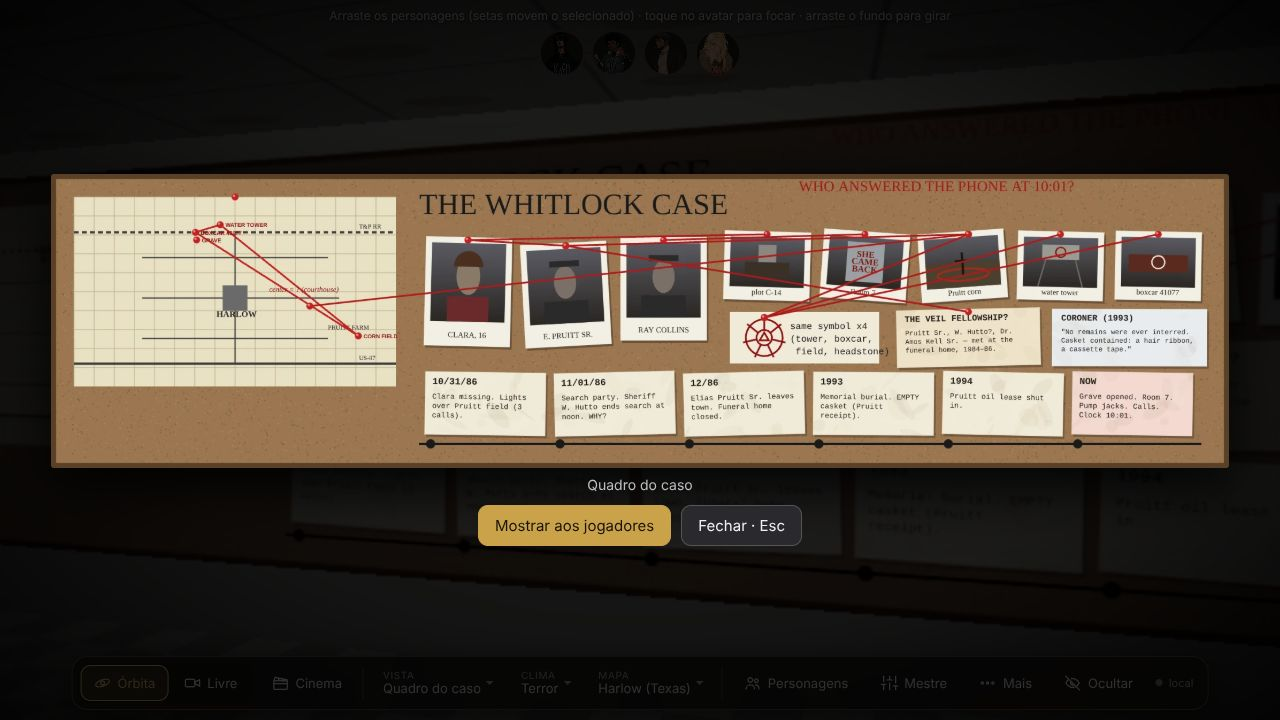
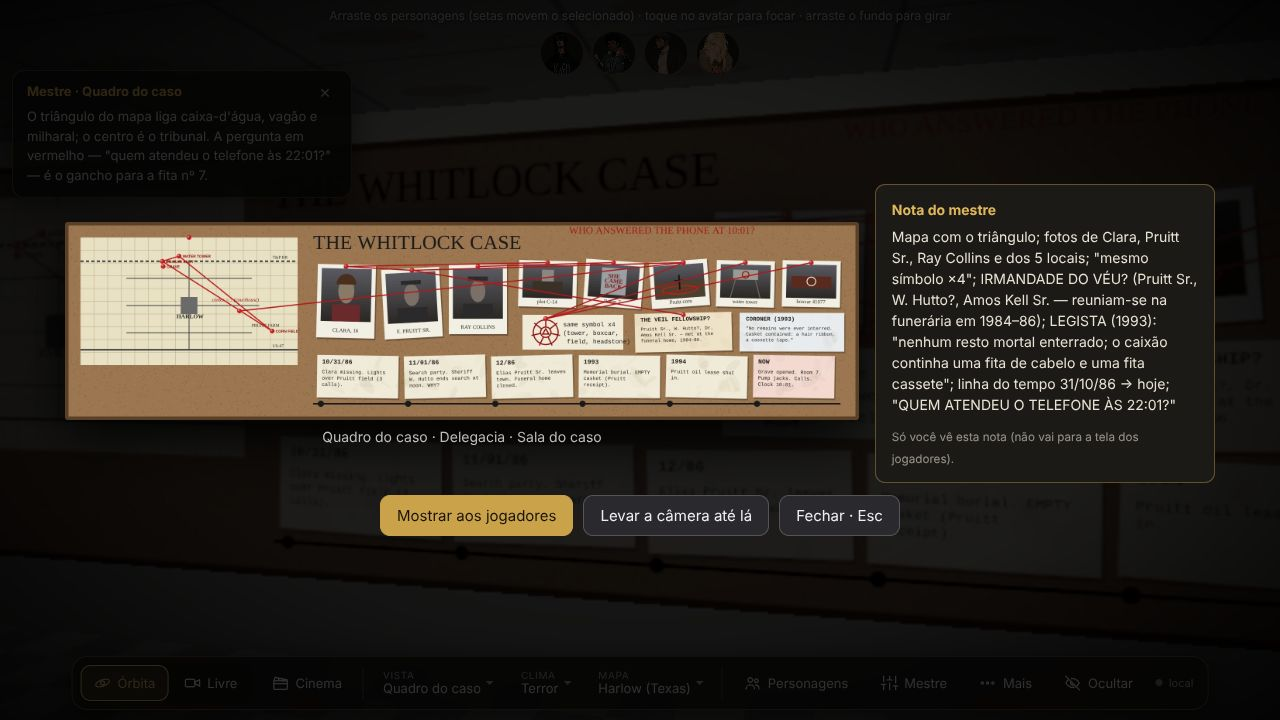
Dois monitores: notas do mestre por vista, lista de pistas com tradução, levar a câmera ao documento
Informação de mestre só na janela do mestre (nunca na dos jogadores nem na tela limpa).
Harlow: tradução/nota dos 31 documentos e notas de todas as vistas. test:lupa cobre
notas, pistas, câmera e ausência de vazamento na janela dos jogadores.

Claude-Session: https://claude.ai/code/session_018HzJZ4WL9nnBJcpsTuDajh

diff --git a/src/maps/texas/pistas.ts b/src/maps/texas/pistas.ts
@@ -1,0 +1,66 @@
+// O Caso Whitlock — informações SÓ do mestre: tradução/nota de cada documento (aparece ao lado da lupa) e
+// notas por vista (cartão no canto da janela do mestre). Nada disto vai para a tela dos jogadores.
+// Os nomes têm de bater com os de police.ts (nm('…')) e mystery.ts.
+
+export const PISTAS: Record<string, { onde: string; pt: string }> = {
+  // ---------- delegacia ----------
+  'Mural de avisos (recepção)': { onde: 'Delegacia · Recepção', pt: 'DESAPARECIDA: Clara Mae Whitlock, 16, vista pela última vez em 31/10/1986 perto da Pruitt Rd.\nPROCURA-SE para interrogatório: Elias Pruitt (~70), ex-dono da funerária — violação de túmulo. "Não se aproxime."\nTOQUE DE RECOLHER às 22h. Mantenham as crianças em casa.\nREUNIÃO: quem ligou as bombas de petróleo? A companhia de energia diz que não há luz nessas linhas desde 1994.\nCACHORRO PERDIDO: "Buck", fugiu para o milharal e não volta quando chamam.\nVIGÍLIA na Igreja Batista por Clara e por Ray Collins.' },
+  'Placa do xerife': { onde: 'Delegacia · Recepção', pt: 'Xerife Dale Hutto, Condado de Harlow, desde 1998. Filho do xerife W. Hutto, que encerrou a busca em 1986.' },
+  'Foto do grupo de busca, 1986': { onde: 'Delegacia · Recepção', pt: '"Grupo de busca, 1º/11/1986 — Xerife W. Hutto (à esquerda)". Repare: Elias Pruitt Sr. aparece na ponta direita, de luvas.' },
+  'Memorando do xerife': { onde: 'Delegacia · Sala do xerife', pt: 'RE: WHITLOCK (86-1031). O caso continua FECHADO. Ninguém puxa o arquivo, ninguém fala com a imprensa, ninguém vai à fazenda Pruitt depois que escurece. "Meu pai enterrou isso em 86 e eu pretendo manter assim." — D.H.\n\nSEGREDO: o xerife sabe que o pai participou da Irmandade do Véu.' },
+  'Carta de Elias Pruitt Jr.': { onde: 'Delegacia · Sala do xerife', pt: '"Dale, sei o que meu pai fez naquele campo e o que o seu pai ajudou a enterrar. O círculo nunca foi fechado. Está abrindo de novo. Precisa ser fechado DE DENTRO do campo, às 22:01, com as mesmas palavras. Eu as escrevi. Estão no porão. Não deixe ninguém responder quando chamar com a voz dela." — E. Pruitt\n\nGANCHO: as palavras estão no porão de tempestade da fazenda.' },
+  'Mapa do condado (sala do xerife)': { onde: 'Delegacia · Sala do xerife', pt: 'Caixa-d\'água, vagão 41077, milharal e o túmulo marcados com alfinetes, ligados por um triângulo vermelho. Anotação: "centro = ? (tribunal)".\n\nSEGREDO: o centro do triângulo cai no tribunal — o relógio parado às 22:01 é o "olho" do símbolo.' },
+  'Fotos na parede do xerife': { onde: 'Delegacia · Sala do xerife', pt: '"Pai, 1986"; "W. Hutto e E. Pruitt Sr." juntos e sorrindo; "a casa dos Pruitt"; foto do campo com a legenda "queimem isto".' },
+  'Relatório: INCIDENT REPORT 26-1102': { onde: 'Delegacia · Agentes', pt: 'Cemitério da Igreja Batista, lote C-14 (Whitlock). Túmulo ABERTO às 6:10. Terra jogada PARA FORA, tampa removida. Caixão vazio — segundo o recibo da funerária, sempre esteve. Escada deixada no buraco. Nenhuma pegada saindo.' },
+  'Relatório: MISSING PERSON 26-1104': { onde: 'Delegacia · Agentes', pt: 'RAY COLLINS, 34, vendedor de Lubbock, Starlite Motel, QUARTO 7. Porta aberta, abajur aceso, cama feita, carro no estacionamento. Espelho: "SHE CAME BACK" ("ela voltou") em vermelho — o laboratório diz que NÃO é sangue: óxido de ferro, tinta antiga. Polaroid na cama datada de 31/10/86.' },
+  'Relatório: CALL FOR SERVICE 26-1106': { onde: 'Delegacia · Agentes', pt: 'Concessão Pruitt: as 5 bombas de petróleo FUNCIONANDO. Campo fechado desde 1994; a companhia confirma que não há energia. Deputado Garza: "os motores estão frios e se mexem mesmo assim."' },
+  'Relatório: CALL FOR SERVICE 26-1108': { onde: 'Delegacia · Agentes', pt: 'Rancho Hale: 12 cabeças de gado sumidas, porteira fechada, sem rastros. O fazendeiro viu "uma menina parada no milho à noite, chamando a mãe". O deputado não achou ninguém.' },
+  'Quadro de chamadas da semana': { onde: 'Delegacia · Agentes', pt: 'Seg túmulo aberto · Ter Ray Collins some do quarto 7 · Qua bombas de petróleo se mexendo · Qui gado sumido e "menina no milho" · Sex 3 ligações da linha dos PRUITT (desligada em 1987) · Sáb relógio do tribunal parou às 22:01 · Dom ???\n"NÃO VÃO LÁ SOZINHOS."' },
+  'Dias sem incidentes': { onde: 'Delegacia · Agentes', pt: '"Dias sem incidentes: 0".' },
+  'Escala de plantão': { onde: 'Delegacia · Agentes', pt: 'Dia: Xerife Hutto e Dep. M. Garza · Noite: Dep. T. Boone e Dep. J. Lyle · Rádio: Sra. Irene Kowalski.\nPatrulha da noite "só no asfalto; não entrem na Pruitt Rd. depois das 22h". Lyle "doente desde quarta (?)".' },
+  'Quadro do caso': { onde: 'Delegacia · Sala do caso', pt: 'Mapa com o triângulo; fotos de Clara, Pruitt Sr., Ray Collins e dos 5 locais; "mesmo símbolo ×4"; IRMANDADE DO VÉU? (Pruitt Sr., W. Hutto?, Amos Kell Sr. — reuniam-se na funerária em 1984–86); LEGISTA (1993): "nenhum resto mortal enterrado; o caixão continha uma fita de cabelo e uma fita cassete"; linha do tempo 31/10/86 → hoje; "QUEM ATENDEU O TELEFONE ÀS 22:01?"' },
+  'Quadro "o que sabemos"': { onde: 'Delegacia · Sala do caso', pt: '1. Clara entrou no campo e não saiu. 2. Pruitt Sr. e "amigos" fizeram algo lá. 3. O pai do xerife encerrou a busca — ele sabia. 4. Caixão: fita de cabelo + FITA (evidência nº 7 — sumiu?). 5. O símbolo é o mapa dos 3 locais; e o centro? 6. Tudo acontece às 22:01. 7. Pruitt Jr. voltou e quer o campo FECHADO.' },
+  'Papéis sobre a mesa do caso': { onde: 'Delegacia · Sala do caso', pt: 'Recibo da Funerária Pruitt (1993): caixão lacrado, tamanho infantil, "conteúdo a pedido da família: nenhum". À mão: "por W.H. — lacre. — E.P."' },
+  'Etiqueta da caixa 86-1031': { onde: 'Delegacia · Evidências', pt: '"86-1031 · WHITLOCK, C.M. · NÃO ABRIR".' },
+  'Livro de registro de evidências': { onde: 'Delegacia · Evidências', pt: '1 fita de cabelo vermelha (do caixão) · 2 polaroides do campo (31/10/86) · 3 giz do porão · 4 depoimento lacrado de Pruitt Jr. · 5 mapa desenhado · 6 registro da busca (páginas 3–5 ARRANCADAS) · 7 FITA CASSETE "31/10 22:01 — ligação à emergência" — retirada por D. HUTTO em 10/11, NÃO devolvida · 8 coleira do cachorro "Buck" achada no milho.\n\nSEGREDO: a fita nº 7 está no cofre do xerife. Nela, a voz de Clara pede socorro… e depois chama cada pessoa da sala pelo nome.' },
+  'Transcrição do depoimento de Dot Reyes': { onde: 'Delegacia · Interrogatório', pt: '"Ela chegou às 21:40, descalça, pediu o telefone. Disse que tinha de ligar para a mãe antes das dez. Discou, desligou e disse: o espantalho sabe meu nome. Saiu para a Pruitt Rd."\n"Semana passada o telefone da lanchonete tocou às 22:01: \'Dot, diz pra mamãe que eu tô no campo.\' Xerife, eu CONHEÇO essa voz."' },
+  'Registro do despacho (rádio)': { onde: 'Delegacia · Rádio', pt: '21:47 luzes no milho (Hale) · 21:58 alarme do relógio do tribunal (ninguém lá dentro) · 22:01 ligação: menina, "diz pra mamãe que eu tô no campo, vem me buscar" — rastreada até a CASA DOS PRUITT (linha desligada em 03/1987) · 22:01 mesma voz para a lanchonete · 22:01 mesma voz para a casa dos Whitlock · 22:02 Lyle vai à Pruitt Rd. contra ordens · 22:19 e 22:40 Lyle NÃO RESPONDE. — I.K.' },
+  'Cartão de códigos 10': { onde: 'Delegacia · Rádio', pt: '10-4 ok · 10-8 em serviço · 10-20 localização · 10-33 emergência · 10-99 (escrito à mão) "…não atenda".' },
+  'Símbolo riscado na cela 2': { onde: 'Delegacia · Celas', pt: 'O mesmo símbolo do caso riscado na parede, marcas de contagem e "22:01". Quem ficou preso aqui (um andarilho, semana passada) foi solto de manhã e ninguém o viu sair da cidade.' },
+  'Bilhete na cela': { onde: 'Delegacia · Celas', pt: '"Todos dizem a mesma coisa às 22:01. Não atenda. Não diga seu nome em voz alta." — T.B. (deputado Boone)' },
+  // ---------- pistas pela cidade ----------
+  'Lápide de Clara Mae Whitlock': { onde: 'Cemitério', pt: '"Clara Mae Whitlock, 1970–1986 — Até que voltes para casa". O símbolo pequeno gravado embaixo: a lápide foi encomendada pela Funerária Pruitt.' },
+  'Mural de recortes (fazenda)': { onde: 'Fazenda Pruitt', pt: 'Recortes: "MENINA DE 16 DESAPARECIDA", "BUSCA ENCERRADA", "LUZES SOBRE A FAZENDA PRUITT?", "AGENTE FUNERÁRIO DEIXA A CIDADE"; foto de Clara; mapa com o símbolo. Alguém montou isto há POUCOS dias (fita adesiva nova): Pruitt Jr.' },
+  'Símbolo no vagão': { onde: 'Ferrovia', pt: 'Vagão T&P 41077, parado desde os anos 80, com o símbolo em giz na porta. Dentro (a critério do mestre): caixas da funerária com velas, giz e uma lista de nomes — a Irmandade.' },
+  "Símbolo na caixa-d'água": { onde: 'Ferrovia', pt: 'O símbolo pichado bem alto, visível de quase toda a cidade. Ninguém sabe como alguém subiu lá; a escada está enferrujada e trancada.' },
+  'Cartaz de desaparecida (lanchonete)': { onde: 'Rodovia · Lanchonete', pt: '"DESAPARECIDA — Clara Whitlock — vista pela última vez em 31/10/1986 perto da Pruitt Rd." O cartaz nunca foi tirado da parede.' },
+  'Polaroid sobre a cama (quarto 7)': { onde: 'Rodovia · Motel', pt: 'Polaroid escura, uma silhueta de menina no milho. No verso: "10·31·86". Ray Collins não tinha câmera.' },
+  'Quadro de hinos (igreja)': { onde: 'Igreja', pt: 'Os números dos hinos formam 10 · 31 · 86. O pastor Amos Kell jura que tranca o quadro toda noite (o pai dele era da Irmandade).' },
+};
+
+export const NOTAS: Record<string, string> = {
+  'Delegacia': 'ABERTURA. Os agentes chegam à delegacia. Duas viaturas na frente; uma com o giroflex ligado. A do deputado Lyle sumiu desde a noite passada.\nNPC: Xerife Dale Hutto — frio, quer o caso fechado. Irene Kowalski (rádio) quer ajudar às escondidas.\nPergunte o que cada agente faz primeiro. Às 22:01 o telefone da delegacia vai tocar.',
+  'Recepção': 'Mural com o cartaz de Clara, o "procura-se" de Elias Pruitt, toque de recolher e o cachorro perdido. Foto do grupo de busca de 1986 na parede (Pruitt Sr. aparece de luvas).\nO xerife recebe os agentes no balcão e evita perguntas sobre 1986.',
+  'Sala do xerife': 'Trancada se o xerife estiver na delegacia (teste para entrar). Memorando "caso FECHADO", carta de Pruitt Jr. (as palavras estão no porão), mapa com o triângulo, fotos de W. Hutto com Pruitt Sr.\nCOFRE Mosler: guarda a FITA Nº 7. Combinação: 10-31-86.',
+  'Agentes': 'Quatro mesas com os relatórios da semana (túmulo, quarto 7, bombas, gado). Quadro de chamadas: ligações da linha dos Pruitt, desligada em 1987. Escala: Lyle "doente".\nDeputado Garza, se estiver, conta das bombas "frias que se mexem".',
+  'Sala do caso': 'Coração da investigação. Quadro do caso + "o que sabemos" + recibo da funerária na mesa. Peça aos jogadores que liguem o símbolo, a data e a funerária.\nUse Mestre → Pistas do mapa para mostrar cada documento sem mover a câmera.',
+  'Quadro do caso': 'O triângulo do mapa liga caixa-d\'água, vagão e milharal; o centro é o tribunal. A pergunta em vermelho — "quem atendeu o telefone às 22:01?" — é o gancho para a fita nº 7.',
+  'Mural da recepção': 'Todos os avisos legíveis de perto. O de "procura-se" é recente: o xerife acha que Pruitt Jr. abriu o túmulo (não foi ele).',
+  'Evidências': 'Estantes com caixas. Na mesa: caixa 86-1031 aberta, fita vermelha e o toca-fitas VAZIO. O livro de registro denuncia: fita nº 7 retirada pelo xerife e não devolvida.\nSe tocarem a fita (do cofre): a voz pede socorro e depois diz o nome de cada agente presente. Teste de sanidade.',
+  'Interrogatório': 'Mesa, gravador, espelho falso. Transcrição do depoimento de Dot Reyes: "o espantalho sabe meu nome" e a ligação de semana passada.\nBom lugar para interrogar o próprio xerife mais tarde.',
+  'Rádio': 'Mesa de despacho de Irene Kowalski. Registro de ontem: três ligações da mesma voz às 22:01 e o Lyle sem responder desde 22:19.\nIrene passa o registro às escondidas se os agentes forem gentis. Às 22:01 o rádio chia com uma respiração.',
+  'Celas': 'Três celas; a 3 está aberta. Na 2, o símbolo riscado e "22:01"; bilhete do deputado Boone: "não atenda, não diga seu nome em voz alta".\nSe alguém disser o próprio nome aqui depois das 22h, as luzes piscam (use Mestre → A luz caiu).',
+  'Praça': 'Tribunal com o relógio parado às 22:01 (centro do símbolo). Lojas: funerária Pruitt fechada, cinema Roxy "CLOSED · SEE YOU SOON". Reunião da cidade quinta 19h.',
+  'Main Street': 'Rua principal até o tribunal. Moradores evitam falar do caso. Toque de recolher às 22h.',
+  'Saloon': 'Lone Star Tavern. Bom para boatos: "o velho Pruitt voltou, está no motel com outro nome"; "as bombas ligaram sozinhas".',
+  'Lanchonete': 'Dot\'s Diner, aberta 24h. Dot Reyes viu Clara em 1986 e recebeu a ligação semana passada. Cartaz de desaparecida ainda na parede.',
+  'Rodovia': 'Posto, lanchonete e o Starlite Motel. O letreiro VACANCY pisca. Outdoor "Have you seen Clara Whitlock?" na saída oeste.',
+  'Quarto 7': 'Ray Collins sumiu daqui. Porta aberta, abajur piscando, espelho com "SHE CAME BACK", polaroid de 31/10/86 na cama.\nElias Pruitt Jr. está hospedado no quarto 2 com nome falso.',
+  'Igreja': 'First Baptist. Quadro de hinos com 10·31·86. Pastor Amos Kell (filho de um membro da Irmandade) tem medo e mente mal.',
+  'Cemitério': 'Cova de Clara aberta, terra jogada PARA FORA, escada dentro. A lápide tem o símbolo pequeno embaixo.',
+  'Estação': 'Estação e silos da cooperativa. O vagão 41077 fica a oeste, nos trilhos.',
+  'Vagão': 'Vagão com o símbolo em giz. Dentro: caixas da funerária, velas, giz e a lista da Irmandade do Véu (Pruitt Sr., W. Hutto, Amos Kell Sr.).',
+  'Fazenda': 'Fazenda Pruitt abandonada. Moinho gira sem vento. Porão de tempestade aberto com brilho vermelho (as palavras do ritual estão lá embaixo). Milharal atrás, com o espantalho.',
+  'Ritual': 'Sala da casa: círculo de giz com velas ACESAS hoje e o mural de recortes. Pruitt Jr. esteve aqui há poucas horas.',
+  'Milharal': 'CLÍMAX. Círculo queimado com o símbolo, talos caídos em espiral, espantalho no centro. Às 22:01 a "Clara" chama cada agente pelo nome. Quem responder é puxado para o Outro Lado.\nPara fechar: ler as palavras do porão dentro do círculo às 22:01.',
+};

diff --git a/src/core/docs.ts b/src/core/docs.ts
@@ -7,9 +7,11 @@ import { st } from './state';
 import { mostrar, exibir, guardarImagem } from './mostrar';
 import { espelho } from './espelho';
 import { CFG } from './config';
+import { rodar } from './cinema';
+import type { MapRuntime } from './types';
 
 const ray = new THREE.Raycaster(), m2 = new THREE.Vector2();
-let el: HTMLDivElement | null = null, aberto: { n: string; data: string } | null = null;
+let el: HTMLDivElement | null = null, aberto: { n: string; data: string; doc: Doc } | null = null;
 const LONGE = 14; // metros: mais longe que isso não abre (evita clicar num papel do outro lado da cidade)
 
 function alvo(e: { clientX: number; clientY: number }) {
@@ -33,9 +35,13 @@ function imagemDe(o: THREE.Object3D): string | null {
   const c = document.createElement('canvas'); c.width = img.width; c.height = img.height; c.getContext('2d')!.drawImage(img, 0, 0); return c.toDataURL('image/webp', 0.9);
 }
 
+type Doc = NonNullable<MapRuntime['docs']>[number];
+
 function montar() {
   el = document.createElement('div'); el.id = 'lupa'; el.hidden = true;
-  el.innerHTML = '<figure><img alt=""><figcaption></figcaption></figure><div class="row"><button class="pri" id="lupaj">Mostrar aos jogadores</button><button id="lupax">Fechar · Esc</button></div>';
+  el.innerHTML = '<div class="lupa-corpo"><figure><img alt=""><figcaption></figcaption></figure>'
+    + '<aside><b>Nota do mestre</b><p></p><small>Só você vê esta nota (não vai para a tela dos jogadores).</small></aside></div>'
+    + '<div class="row"><button class="pri" id="lupaj">Mostrar aos jogadores</button><button id="lupac">Levar a câmera até lá</button><button id="lupax">Fechar · Esc</button></div>';
   document.body.appendChild(el);
   el.addEventListener('click', e => { if (e.target === el) fechar(); });
   (el.querySelector('#lupax') as HTMLButtonElement).onclick = fechar;
@@ -45,17 +51,70 @@ function montar() {
     const im = { id, data: aberto.data, papel: false, n: aberto.n };
     guardarImagem(im); mostrar.aoNova(im); exibir(id); fechar();
   };
+  (el.querySelector('#lupac') as HTMLButtonElement).onclick = () => { const d = aberto?.doc; fechar(); if (d) irAte(d); };
   addEventListener('keydown', e => { if (e.code === 'Escape' && aberto) { e.stopPropagation(); fechar(); } }, true);
 }
-function abrir(n: string, data: string) {
+function abrir(d: Doc, data: string) {
   if (!el) montar();
-  aberto = { n, data };
+  aberto = { n: d.n, data, doc: d };
   (el!.querySelector('img') as HTMLImageElement).src = data;
-  (el!.querySelector('figcaption') as HTMLElement).textContent = n;
+  (el!.querySelector('figcaption') as HTMLElement).textContent = d.onde ? d.n + ' · ' + d.onde : d.n;
+  const aside = el!.querySelector('aside') as HTMLElement; aside.hidden = !d.pt; (aside.querySelector('p') as HTMLElement).textContent = d.pt || '';
   (el!.querySelector('#lupaj') as HTMLElement).hidden = CFG.ro;
   el!.hidden = false;
 }
 function fechar() { aberto = null; if (el) el.hidden = true; }
+
+/** Abre um documento do mapa na lupa (sem mexer na câmera: os jogadores não percebem). */
+export function abrirDoc(d: Doc) { const data = imagemDe(d.o); if (data) abrir(d, data); }
+
+/** Leva a câmera (cinema, movimento suave) para enquadrar o documento na cena. */
+export function irAte(d: Doc) {
+  const o = d.o as THREE.Mesh; o.updateMatrixWorld(true);
+  const g = o.geometry; g.computeBoundingBox();
+  const c = g.boundingBox!.getCenter(new THREE.Vector3()).applyMatrix4(o.matrixWorld);
+  const sz = g.boundingBox!.getSize(new THREE.Vector3()), lado = Math.max(sz.x * o.scale.x, sz.y * o.scale.y, 0.25);
+  const n = new THREE.Vector3(0, 0, 1).transformDirection(o.matrixWorld);
+  const dist = Math.max(0.7, lado * 1.15);
+  let p: THREE.Vector3;
+  if (n.y > 0.7) { // papel deitado na mesa: olha de cima, um pouco de lado
+    p = c.clone().add(new THREE.Vector3(0.15, dist + 0.2, 0.35 + dist * 0.25));
+  } else p = c.clone().addScaledVector(n, dist).add(new THREE.Vector3(0, 0.05, 0));
+  rodar({ p: p.toArray() as [number, number, number], t: c.toArray() as [number, number, number], fov: 50 }, 'suave');
+}
+
+/** Preenche a lista "Pistas do mapa" (painel do Mestre), agrupada por local. */
+export function listarPistas(box: HTMLElement) {
+  box.innerHTML = '';
+  const docs = st.MP?.docs || [];
+  if (!docs.length) { const v = document.createElement('div'); v.className = 'vazio'; v.textContent = 'Este mapa não tem documentos registrados.'; box.appendChild(v); return; }
+  const grupos = new Map<string, Doc[]>();
+  docs.forEach(d => { const k = d.onde || 'Outros'; if (!grupos.has(k)) grupos.set(k, []); grupos.get(k)!.push(d); });
+  grupos.forEach((L, onde) => {
+    const h = document.createElement('div'); h.className = 'sub'; h.textContent = onde; box.appendChild(h);
+    L.forEach(d => { const b = document.createElement('button'); b.textContent = d.n; b.title = d.pt || ''; b.onclick = () => abrirDoc(d); box.appendChild(b); });
+  });
+}
+
+// ---------- notas do mestre por vista (cartão só na janela do mestre) ----------
+let nota: HTMLDivElement | null = null, vistaAtual = '', fechadaEm = '';
+function initNotas() {
+  nota = document.createElement('div'); nota.id = 'nota'; nota.hidden = true;
+  nota.innerHTML = '<header><b></b><button title="Esconder até mudar de vista" aria-label="Esconder">×</button></header><div class="txt"></div>';
+  document.body.appendChild(nota);
+  (nota.querySelector('button') as HTMLButtonElement).onclick = () => { fechadaEm = vistaAtual; nota!.hidden = true; };
+  setInterval(() => {
+    const v = (document.getElementById('bv')?.textContent || '').trim(), M = st.MP;
+    if (v === vistaAtual && nota!.dataset.mapa === (M?.id || '')) return;
+    vistaAtual = v; nota!.dataset.mapa = M?.id || '';
+    const t = M?.notas?.[v];
+    if (!t || fechadaEm === v) { nota!.hidden = true; return; }
+    fechadaEm = '';
+    (nota!.querySelector('b') as HTMLElement).textContent = 'Mestre · ' + v;
+    (nota!.querySelector('.txt') as HTMLElement).textContent = t;
+    nota!.hidden = false;
+  }, 400);
+}
 
 /** Liga a lupa (chamar uma vez). Na janela dos jogadores não faz nada. */
 // ganchos para o teste automático (tools/testar-lupa.mjs)
@@ -63,14 +122,14 @@ function fechar() { aberto = null; if (el) el.hidden = true; }
 (window as any).__docsAlvo = (x: number, y: number) => { const d = alvo({ clientX: x, clientY: y }); return d ? d.n : null; };
 export function initDocs() {
   if (espelho.jogadores) return;
+  initNotas();
   let down: { x: number; y: number; t: number } | null = null, lastHover = 0;
   cv.addEventListener('pointerdown', e => { if (e.isPrimary) down = { x: e.clientX, y: e.clientY, t: performance.now() }; });
   cv.addEventListener('pointerup', e => {
     const d = down; down = null;
     if (!d || !e.isPrimary || st.drag || document.body.classList.contains('picking')) return;
     if (Math.hypot(e.clientX - d.x, e.clientY - d.y) > 6 || performance.now() - d.t > 450) return; // foi arrasto
-    const doc = alvo(e); if (!doc) return;
-    const data = imagemDe(doc.o); if (data) abrir(doc.n, data);
+    const doc = alvo(e); if (doc) abrirDoc(doc);
   });
   cv.addEventListener('pointermove', e => {
     if (e.buttons || e.pointerType !== 'mouse') return;

diff --git a/src/style.css b/src/style.css
@@ -193,12 +193,34 @@ button.av.oc{opacity:.45;border-style:dashed}
 
 /* lupa: documento da cena ampliado (core/docs.ts) */
 canvas.lupa{cursor:zoom-in}
-#lupa{position:fixed;inset:0;z-index:11;background:#000c;display:flex;flex-direction:column;align-items:center;justify-content:center;gap:12px;padding:16px;box-sizing:border-box}
+#lupa{position:fixed;inset:0;z-index:40;background:#000c;display:flex;flex-direction:column;align-items:center;justify-content:center;gap:12px;padding:16px;box-sizing:border-box}
 #lupa[hidden]{display:none}
 #lupa figure{margin:0;display:flex;flex-direction:column;align-items:center;gap:8px;max-width:100%;max-height:calc(100% - 70px)}
-#lupa img{max-width:min(92vw,1400px);max-height:calc(100vh - 140px);object-fit:contain;box-shadow:0 18px 60px #000;border-radius:3px;background:#222}
+#lupa img{max-width:min(92vw,1400px);max-height:calc(100vh - 170px);object-fit:contain;box-shadow:0 18px 60px #000;border-radius:3px;background:#222}
 #lupa figcaption{color:#ddd;font:14px system-ui,sans-serif;opacity:.85}
 #lupa .row{display:flex;gap:10px;flex-wrap:wrap;justify-content:center}
 #lupa button{font:15px system-ui,sans-serif;padding:10px 16px;border-radius:10px;border:1px solid #fff3;background:#2a2a2e;color:#eee;cursor:pointer}
 #lupa button.pri{background:#c9a24a;color:#1a1408;border-color:#c9a24a}
 .jogadores #lupa{display:none}
+
+/* lupa com nota do mestre ao lado */
+#lupa .lupa-corpo{display:flex;gap:16px;align-items:center;justify-content:center;max-width:100%;max-height:calc(100% - 80px);min-height:0}
+#lupa aside{width:min(340px,30vw);max-height:calc(100vh - 160px);overflow:auto;background:#1c1a17;color:#e8e2d4;border:1px solid #c9a24a66;border-radius:10px;padding:14px 16px;font:14px/1.5 system-ui,sans-serif;box-sizing:border-box}
+#lupa aside[hidden]{display:none}
+#lupa aside b{color:#e0b85a;display:block;margin-bottom:6px}
+#lupa aside p{margin:0 0 10px;white-space:pre-wrap}
+#lupa aside small{opacity:.6}
+#lupa .lupa-corpo img{max-width:min(62vw,1400px)}
+@media (max-width:760px){#lupa .lupa-corpo{flex-direction:column}#lupa aside{width:100%;max-height:30vh}#lupa .lupa-corpo img{max-width:92vw;max-height:50vh}}
+/* notas do mestre (cartão no canto, só na janela do mestre) */
+#nota{position:fixed;left:12px;top:calc(70px + env(safe-area-inset-top,0px));z-index:6;width:min(340px,calc(100vw - 24px));max-height:46vh;overflow:auto;background:#151412e8;color:#e8e2d4;
+  border:1px solid #c9a24a55;border-radius:12px;padding:10px 14px 12px;font:13px/1.5 system-ui,sans-serif;box-shadow:0 8px 30px #0008;box-sizing:border-box}
+#nota[hidden],.limpa #nota,.jogadores #nota,.nu #nota{display:none!important}
+#nota header{display:flex;align-items:center;justify-content:space-between;gap:8px;margin-bottom:4px}
+#nota header b{color:#e0b85a;font-size:13px}
+#nota header button{background:transparent;border:0;color:#bbb;font-size:18px;line-height:1;padding:2px 6px;cursor:pointer}
+#nota .txt{white-space:pre-wrap}
+.pistas{display:flex;flex-direction:column;gap:2px;max-height:34vh;overflow:auto}
+.pistas .sub{font-size:11px;opacity:.6;margin:6px 0 2px;text-transform:uppercase;letter-spacing:.04em}
+.pistas button{text-align:left;font-size:12.5px}
+.jogadores #lupa,.jogadores #nota{display:none!important}

diff --git a/index.html b/index.html
@@ -91,6 +91,8 @@
 <button id="dpapel" class="tg" aria-pressed="true">Efeito de papel</button>
 <div id="dimgs" class="minis"></div>
 <button id="desc">Esconder imagem · I</button>
+<div class="h">Pistas do mapa <small>· abre sem mexer na câmera</small></div>
+<div id="dpistas" class="pistas"></div>
 </div></div>
 </div>
 <div class="pop" id="pc" hidden role="menu">
@@ -131,7 +133,8 @@
 <dt>Atalhos</dt><dd>P: escolher ponto da câmera de cinema · 1 a 9: tocar as tomadas gravadas · Esc: sair do cinema · K: congelar a tela dos jogadores · B: escurecer · O: a luz caiu · N: névoa densa · L: lanterna · R: relâmpago · I: mostrar/esconder imagem · . e ,: próxima/anterior cena</dd>
 <dt>Mestre</dt><dd>Cenas (gravam clima, câmera, legenda, luz, névoa e vilões), tela dos jogadores, luz e clima, sons do mestre, som ambiente e imagens para mostrar. Personagem selecionado → Ocultar: só você vê até revelar no Cinema</dd>
 <dt>Som</dt><dd>Mestre → Som ambiente: vento, zumbido, trovões e grilos conforme o clima, e efeitos no cinema. "Jogadores" toca só na janela dos jogadores (dê um clique ou duplo clique nela uma vez para o navegador liberar o som)</dd>
-<dt>Documentos</dt><dd>passe o mouse num papel, quadro ou cartaz da cena (aparece a lupa) e clique: ele abre ampliado e legível · "Mostrar aos jogadores" manda para a tela deles · Esc fecha</dd>
+<dt>Documentos</dt><dd>Mestre → Pistas do mapa: abre qualquer documento só na sua tela (com a tradução/nota ao lado) sem mover a câmera; de lá, "Mostrar aos jogadores" ou "Levar a câmera até lá" · passe o mouse num papel, quadro ou cartaz da cena (aparece a lupa) e clique: ele abre ampliado e legível · "Mostrar aos jogadores" manda para a tela deles · Esc fecha</dd>
+<dt>Notas do mestre</dt><dd>ao escolher uma vista, um cartão no canto mostra o que há no local, os segredos e ganchos — só na sua janela (nunca na tela dos jogadores nem na tela limpa) · × esconde até mudar de vista</dd>
 <dt>Geral</dt><dd>Esc: volta para a órbita · Vista: leva a câmera para pontos prontos</dd>
 </dl>
 <div class="row"><button id="hx">Fechar</button></div></div>

diff --git a/src/main.ts b/src/main.ts
@@ -15,7 +15,7 @@ import { menu, lista, fecharMenu, initMenus } from './core/menu';
 import { espelho, initEspelho, serJogadores, abrirJanelaJogadores, dentroDeOutraPagina, tickEspelho, enviarQuadro, avisarMapa, avisarClima } from './core/espelho';
 import { imersao, fx, tickImersao, aplicarSom, aplicarPreto, prepararLanterna, setNomeClima, setApagao, type SomModo, type Fx } from './core/imersao';
 import { mostrar, exibir, carregarImagem } from './core/mostrar';
-import { initDocs } from './core/docs';
+import { initDocs, listarPistas } from './core/docs';
 import { listaCenas, gravarCena, apagarCena } from './core/cenas';
 import { som } from './core/som';
 import { initCinema, rodar, cineHooks, tomadaAtual, sair, tickCinema, apontar, tomadaPara, gravarAtual, apagarTomada, listaTomadas, abortar, type Estilo, type Tomada } from './core/cinema';
@@ -154,6 +154,7 @@ function encherMestre() {
     mi.appendChild(b);
   });
   tg('dpapel', papel);
+  listarPistas($('dpistas') as HTMLElement);
 }
 function alternarImagem() {
   if (mostrar.atual) { exibir(''); return; }

diff --git a/src/maps/texas/index.ts b/src/maps/texas/index.ts
@@ -8,6 +8,7 @@ import { Builder } from './buildings';
 import { buildLandmarks } from './landmarks';
 import { buildMystery, DOCS } from './mystery';
 import { buildPolice } from './police';
+import { PISTAS, NOTAS } from './pistas';
 import { buildNature, setBuilt, groundH } from './nature';
 import {
   Q, rnd, reseed, sm, LREQ, TM, neonTexture, SQ, RING, ROW0, ROWD, HWY, RAIL, RES_Z, RES_X, EXT, CHURCH, CEMETERY, DINER, GAS, MOTEL, DEPOT, ELEVATOR, TOWERW, FARM, PUMPS, TAVERN, POLICE,
@@ -135,7 +136,9 @@ export async function build(M: MapRuntime) {
   buildMystery(G, L.lamps);
   const PD = await buildPolice(G);
   M.lamps.push(...PD.lamps);
-  M.docs = [...PD.docs, ...DOCS];
+  // documentos clicáveis + tradução/nota do mestre; notas por vista (só na janela do mestre)
+  M.docs = [...PD.docs, ...DOCS].map(d => ({ ...d, ...(PISTAS[d.n] || {}) }));
+  M.notas = NOTAS;
   await b.finish();
   M.lamps.push(...L.lamps);
 

diff --git a/src/core/types.ts b/src/core/types.ts
@@ -44,7 +44,9 @@ export interface MapRuntime {
   /** fontes de som no lugar (velas crepitando, sino, porta que range quando a câmera passa) */
   sons?: { x: number; y: number; z: number; tipo: 'velas' | 'sino' | 'porta' }[];
   /** documentos legíveis na cena: clicar abre ampliado (core/docs.ts) */
-  docs?: { o: THREE.Object3D; n: string }[];
+  docs?: { o: THREE.Object3D; n: string; /** tradução/nota para o mestre (só na janela dele) */ pt?: string; /** local, para agrupar na lista */ onde?: string }[];
+  /** notas do mestre por nome de vista: aparecem num cartão só na janela do mestre */
+  notas?: Record<string, string>;
   camMax?: number;
   fogScale?: number;
 }

diff --git a/CHANGELOG.md b/CHANGELOG.md
@@ -271,3 +271,15 @@
     `cardboard_box_01` 1,7k → 0,8k; saloon e fazenda trocam o trono gótico por cadeiras de madeira em código.
 - Ferramentas: `?fps=1` expõe `window.__peso()` (malhas mais pesadas); `node tools/medir-peso.mjs <mapa>
   --dist=dist-lite --lista` mede a versão publicada e lista os vilões.
+
+## Dois monitores: informação só para o mestre
+
+- Pensado para transmitir: a **janela dos jogadores** (outro monitor) mostra só a imagem da câmera; tudo o que é
+  informação fica na **janela do mestre** (testado: a janela dos jogadores não mostra nota, lupa nem botões).
+- **Notas do mestre por vista** (`M.notas`): ao escolher uma vista, um cartão no canto mostra o que há no local,
+  segredos, NPCs e ganchos. Some na tela limpa e nunca aparece para os jogadores; × esconde até mudar de vista.
+- **Mestre → Pistas do mapa**: lista todos os documentos por local; clicar abre na lupa **sem mexer na
+  câmera** (os jogadores não percebem), com a **tradução/nota em português** ao lado.
+- Na lupa: **Mostrar aos jogadores** (imagem por cima da tela deles) ou **Levar a câmera até lá** (movimento de
+  cinema que enquadra o documento na cena).
+- Harlow: tradução e nota de todos os 31 documentos e notas para todas as vistas (`src/maps/texas/pistas.ts`).

diff --git a/.claude/skills/mapa-3d/SKILL.md b/.claude/skills/mapa-3d/SKILL.md
@@ -118,6 +118,16 @@ Leia `docs/NOVO-MAPA.md` antes de começar.
   joystick no limite, 2,5×) × altura (até 4×), teto 70 m/s. Não volte a limitar o passo da câmera livre a
   0,05 s: em celular lento isso a deixava em câmera lenta. Mapas grandes pedem câmera rápida no alto.
 
+## Dois monitores (decisão do dono)
+
+- O dono transmite **um monitor só com a câmera** (janela dos jogadores, `?tela=jogadores`) e usa **o outro só
+  para ele**, com as informações. Regra: toda informação de mestre (notas, traduções, listas, lupa) aparece
+  só na janela do mestre — nunca na dos jogadores nem na tela limpa (`.jogadores`, `.limpa` no CSS).
+- Por mapa, preencha `M.notas` (texto por nome de vista: o que há, segredos, NPCs, gancho) e dê `pt`/`onde` a
+  cada documento de `M.docs` (tradução/nota e local). Modelo: `src/maps/texas/pistas.ts`.
+- Mestre → Pistas do mapa abre um documento sem mover a câmera; "Levar a câmera até lá" (cinema) é a forma de
+  mostrar na cena. `npm run test:lupa` confere tudo isso e que nada vaza para a janela dos jogadores.
+
 ## Lupa de documentos (`src/core/docs.ts`)
 
 - Todo documento importante vai em `M.docs = [{ o: mesh, n: 'Nome' }]` (plano com textura de canvas): passar o

diff --git a/docs/casos/harlow-caso-whitlock.md b/docs/casos/harlow-caso-whitlock.md
@@ -94,6 +94,11 @@ mapa (em inglês); aqui vai a tradução para o mestre.
 | Celas | Cela 2 | O símbolo riscado na parede, marcas de contagem, "22:01" · bilhete do deputado Boone: "todos dizem a mesma coisa às 22:01. Não atenda. Não diga seu nome em voz alta." · A porta da cela 3 está aberta |
 | Fora | Viaturas | Uma com o giroflex ligado; a outra parada — é a do deputado Lyle? (o mestre decide) |
 
+**Dois monitores:** abra Mais → Abrir janela dos jogadores e leve-a ao monitor transmitido (só a câmera). Na
+sua janela ficam o cartão **Mestre · <vista>** (resumo, segredos e ganchos de cada local, com o texto desta
+página) e **Mestre → Pistas do mapa** (todos os documentos com a tradução ao lado, abertos sem mexer na
+câmera; de lá, "Mostrar aos jogadores" ou "Levar a câmera até lá").
+
 **Na mesa:** o mapa abre na frente da delegacia. Passe o mouse em qualquer papel, quadro ou cartaz (aparece a
 lupa) e clique: ele abre ampliado; o botão **Mostrar aos jogadores** manda para a tela deles.
 

diff --git a/docs/NOVO-MAPA.md b/docs/NOVO-MAPA.md
@@ -97,7 +97,9 @@ pelo núcleo). Nas capturas automáticas o tempo é fixo, para as imagens serem 
 - As **vistas** (`M.views`) também aparecem como tomadas no painel **Cinema**; dê vistas bem enquadradas, com `fov`.
   A **primeira** vista é onde o mapa abre.
 - **Documentos legíveis**: `M.docs = [{ o: malha, n: 'Nome' }]` (planos com textura de canvas) — clicar abre
-  ampliado e o mestre pode mostrar aos jogadores (`src/core/docs.ts`).
+  ampliado e o mestre pode mostrar aos jogadores (`src/core/docs.ts`). Dê `pt` (tradução/nota) e `onde` (local)
+  para a lista Mestre → Pistas do mapa.
+- **Notas do mestre**: `M.notas = { 'Nome da vista': 'texto' }` — cartão só na janela do mestre.
 - `M.walk` (chão) e `M.solid()` (paredes) são usados pelo Cinema para escolher o ponto clicado e evitar que a
   câmera atravesse paredes; mantenha os dois corretos e baratos (caixas simples servem).
 
